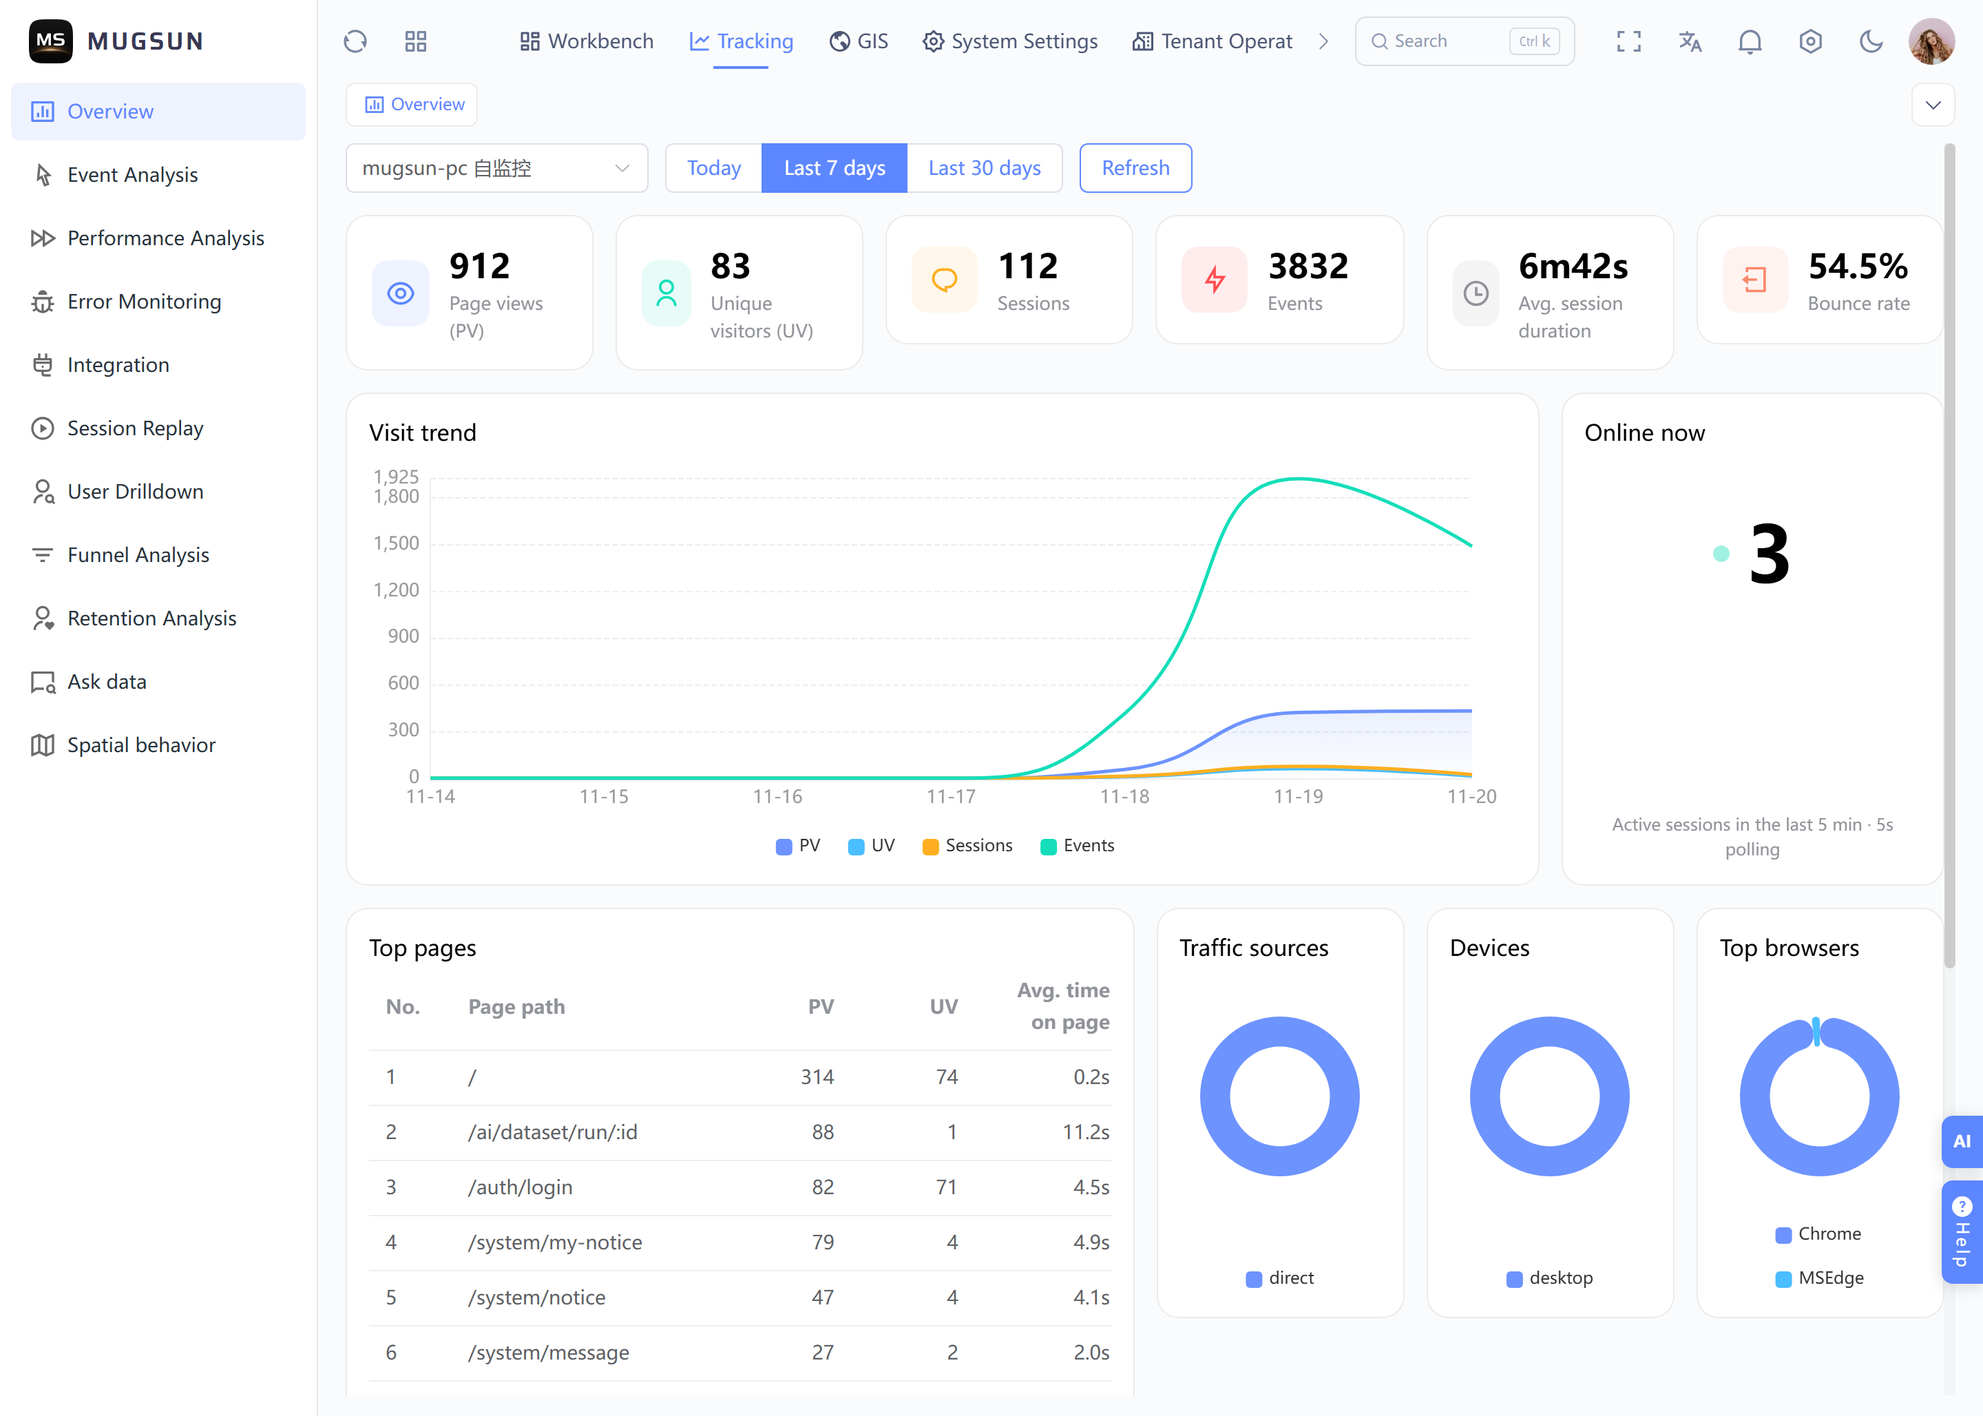
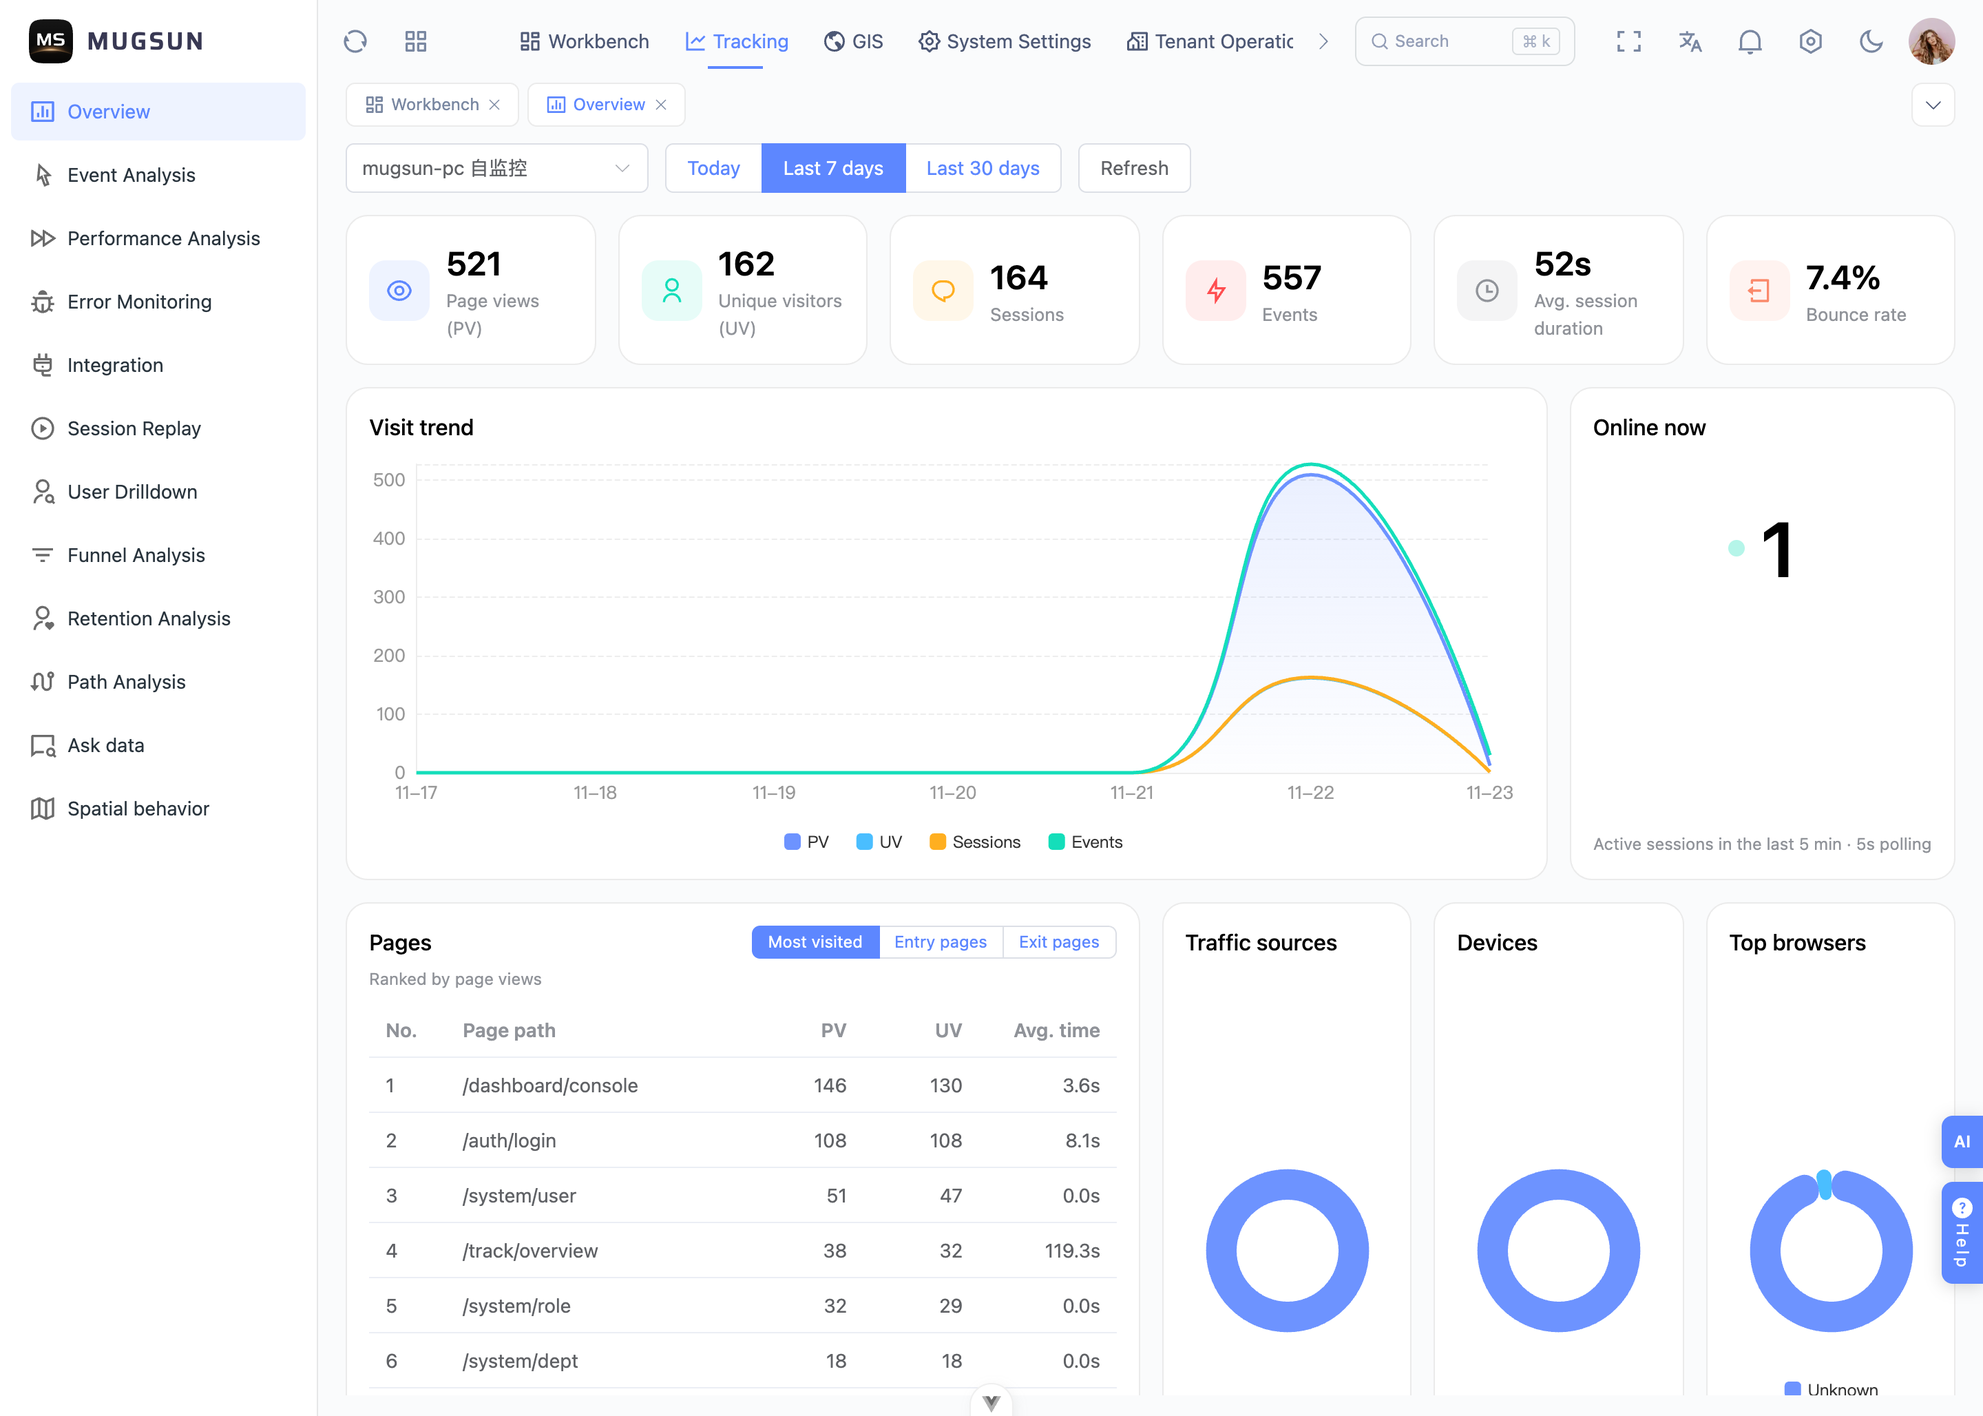
docs(track): 数据概览加上页面排行一节
- 访问最多、入口页、退出页三种排行各列什么、每行有什么
- 入口页、退出页、跳出率、退出率怎么算，和指标卡上的跳出率差在哪
- 接口表加上 /pages 的 type 参数和三种排行各自返回的字段
- 概览页的中英文整页截图重拍，另加入口页卡片的中英文截图
- 更新日志页加上 2026-11-23 这一条

diff --git a/en/track/overview.md b/en/track/overview.md
@@ -6,7 +6,7 @@ Both pages are under the Tracking menu. Pick an application first, then a time r
 
 The selected application and time range are remembered in the browser, and the other Tracking pages reuse them.
 
-![The Overview page: six metric cards at the top, the visit trend and Online now in the middle, Top pages and three distribution charts below](/readme/track-overview-en.png)
+![The Overview page: six metric cards at the top, the visit trend and Online now in the middle, Pages and three distribution charts below](/readme/track-overview-en.png)
 
 ## Metric cards
 
@@ -31,18 +31,42 @@ When no session in the time range has ended yet, Avg. session duration and Bounc
 | Card | Content |
 | --- | --- |
 | Visit trend | With Today, one point every 5 minutes for PV, sessions and events. With 7 or 30 days, one point per day and an extra line for UV |
-| Top pages | The 10 pages with the most page views, each with PV, UV and average time |
+| Pages | Three rankings, each with the top 10 pages: Most visited, Entry pages and Exit pages. See [Pages](#pages) |
 | Traffic sources | PV by the host name of the referring page, top 10. Visits without a referrer are recorded as `direct` |
 | Devices | PV by device type, top 10. Unrecognized ones are recorded as `unknown` |
 | Top browsers | PV by browser, top 10. Unrecognized ones are recorded as `unknown` |
 | Regions | PV, UV and events by the province of the IP address, sorted by events, at most 50 rows |
 | Visit heatmap | The latest 2000 events that carry coordinates, drawn on a map |
 
-The path in Top pages prefers the route template, such as `/order/:id`, so pages of the same kind share one row. Without a route template the actual path is used.
+See [How the dashboards count](/en/track/#dashboard-trend) for how days are cut in the daily trend and how days without data are drawn.
+
+### Pages
+
+Switch between three rankings at the top right of the card. Each shows the top 10 pages:
+
+| Ranking | What it lists | Each row has |
+| --- | --- | --- |
+| Most visited | The pages with the most page views | PV, UV and average time |
+| Entry pages | The first page of each session | Entries, bounces and bounce rate |
+| Exit pages | The last page of each session | Exits, PV and exit rate |
+
+![The Pages card switched to Entry pages, with entries, bounces and bounce rate in each row](/screenshots/track/track-page-rank-entry-en.png)
+
+The page path prefers the route template, such as `/order/:id`, so pages of the same kind share one row. Without a route template the actual path is used.
 
 Average time is the mean of the time on page reported by `$pageleave` events.
 
-See [How the dashboards count](/en/track/#dashboard-trend) for how days are cut in the daily trend and how days without data are drawn.
+Entry pages and Exit pages are counted per session: the page views of a session are put in the order they happened, the first one is the entry page and the last one is the exit page.
+
+- Entries is the number of sessions that came in through this page. Exits is the number of sessions that ended on this page. A session has exactly one entry page and one exit page.
+- A bounce is a session with only one page view. A refresh counts as two page views, so it is not a bounce. Bounce rate = bounces ÷ entries.
+- Exit rate = exits ÷ the PV of this page. It tells you how many of every 100 views of this page were the last page of a session.
+- Page views without a page address are not counted. For a session that viewed only one page, that page is both its entry page and its exit page.
+- When a session crosses the start of the time range, only the part inside the range is visible, and the first page inside the range counts as the entry page.
+
+The bounce rate here covers all sessions in the time range, while the Bounce rate metric card only covers sessions that have ended, so the two numbers can differ slightly.
+
+To see where users go after they come in through an entry page, use [Path analysis](/en/track/journey).
 
 ### Regions and the heatmap
 
@@ -91,7 +115,7 @@ Only about the latest 1000 events per application are kept for this view. For ol
 
 | Content | How it updates |
 | --- | --- |
-| Metric cards, the three distribution charts, Visit trend, Top pages | The result is cached in the backend for 45 seconds. Clicking Refresh still waits for the cache to expire |
+| Metric cards, the three distribution charts, Visit trend, Pages | The result is cached in the backend for 45 seconds. Clicking Refresh still waits for the cache to expire |
 | Regions, Visit heatmap, the event list | Queried from the database every time, not cached |
 | Online now, Real-time event stream | Read from Redis. The page fetches every 5 seconds |
 
@@ -121,7 +145,7 @@ All endpoints are under `/system/track`, use GET and require a login.
 | --- | --- | --- |
 | `/overview` | `sys:track-overview:list` | `appKey` `days` |
 | `/trend` | `sys:track-overview:list` | `appKey` `days` `dimType` `dimKey` |
-| `/pages` | `sys:track-overview:list` | `appKey` `days` `limit` |
+| `/pages` | `sys:track-overview:list` | `appKey` `days` `limit` `type` |
 | `/online` | `sys:track-overview:list` | `appKey` |
 | `/geo` | `sys:track-overview:list` | `appKey` `days` |
 | `/events/page` | `sys:track-event:list` | `appKey` `days` `eventName` `pageNum` `pageSize` |
@@ -136,6 +160,7 @@ Parameter values:
 | `dimType` | One of `overview` `event` `page` `referrer` `device`. Defaults to `overview` |
 | `dimKey` | One value of that dimension, for example the event name when `dimType=event` |
 | `limit` | Defaults to 10 for `/pages` and 100 for `/events/realtime`. Capped at 500 for both |
+| `type` | The ranking of `/pages`: `top` for most visited, `entry` for entry pages, `exit` for exit pages. Defaults to `top`. With `entry` and `exit`, `days` only accepts 1 to 30 |
 | `pageSize` | Defaults to 10, capped at 500 |
 
 What comes back:
@@ -144,7 +169,7 @@ What comes back:
 | --- | --- |
 | `/overview` | `cards` holds the metric cards. `referrerDist` `deviceDist` `browserTop` are the three distribution charts, each item with `name` and `value` |
 | `/trend` | With `days` up to 2, each item has `time` `pv` `eventCount` `sessionCount`. Otherwise each item has `date` `pv` `uv` `sessionCount` `bounceCount` `eventCount` |
-| `/pages` | Each item has `pagePath` `pv` `uv` `avgDurationMs` |
+| `/pages` | With `top`, each item has `pagePath` `pv` `uv` `avgDurationMs`. With `entry`, each item has `pagePath` `sessions` `bounces` `bounceRate`. With `exit`, each item has `pagePath` `sessions` `pv` `exitRate` |
 | `/online` | `online` is the number of sessions and `windowSeconds` is 300 |
 | `/geo` | `regions` is the region table, `points` are the coordinates and `geoCount` is the total count of events with coordinates |
 | `/events/page` | Each row has `eventName` `eventCount` `sessionCount` `uv` `lastTime` |
@@ -153,6 +178,8 @@ What comes back:
 The fields in `cards` are `pv` `uv` `sessionCount` `eventCount` `avgSessionDurationMs` `bounceRate` and `settledSessionCount`.
 
 `bounceRate` is a ratio from 0 to 1. `settledSessionCount` is the number of ended sessions; while it is 0, the duration and the bounce rate have no value yet.
+
+In `/pages`, `bounceRate` and `exitRate` are also ratios from 0 to 1, kept to 4 decimal places. The results of `entry` and `exit` are sorted by `sessions`, largest first.
 
 Times are timestamps in milliseconds, and `date` is a date in the local time zone. When Redis is unreachable, `/online` returns 0 and `/events/realtime` returns an empty array.
 

diff --git a/track/overview.md b/track/overview.md
@@ -6,7 +6,7 @@
 
 选中的应用和时间范围记在浏览器里，「埋点分析」下的其他页面会沿用。
 
-![数据概览页，上面是六张指标卡，中间是访问趋势和当前在线，下面是 Top 页面和三张分布图](/readme/track-overview.png)
+![数据概览页，上面是六张指标卡，中间是访问趋势和当前在线，下面是页面排行和三张分布图](/readme/track-overview.png)
 
 ## 指标卡
 
@@ -31,18 +31,42 @@
 | 卡片 | 内容 |
 | --- | --- |
 | 访问趋势 | 选「今天」时每 5 分钟一个点，画 PV、会话数和事件数。选 7 天或 30 天时每天一个点，多画一条 UV |
-| Top 页面 | PV 最高的 10 个页面，每个页面有 PV、UV 和平均停留 |
+| 页面排行 | 访问最多、入口页、退出页三种排行，各取前 10 个页面，见[页面排行](#页面排行) |
 | 来源分布 | 按来源页面的主机名统计 PV，取前 10。没有来源的记成 `direct` |
 | 设备分布 | 按设备类型统计 PV，取前 10。识别不出的记成 `unknown` |
 | 浏览器 Top | 按浏览器统计 PV，取前 10。识别不出的记成 `unknown` |
 | 地域分布 | 按 IP 所在的省份列出 PV、UV 和事件数，按事件数排，最多 50 行 |
 | 访问热力 | 把最近 2000 条带坐标的事件画在地图上 |
 
-Top 页面的路径优先用路由模板，比如 `/order/:id`，同一类页面合成一行。没有路由模板时用实际路径。
+按天的趋势怎么切天、没有数据的日子怎么画，见[看板怎么统计](/track/#看板趋势)。
+
+### 页面排行
+
+卡片右上角切换三种排行，各取前 10 个页面：
+
+| 排行 | 列的是什么 | 每行有什么 |
+| --- | --- | --- |
+| 访问最多 | PV 最高的页面 | PV、UV、平均停留 |
+| 入口页 | 每次会话看的第一个页面 | 进入次数、跳出次数、跳出率 |
+| 退出页 | 每次会话看的最后一个页面 | 退出次数、PV、退出率 |
+
+![页面排行卡片切到入口页，每行是进入次数、跳出次数和跳出率](/screenshots/track/track-page-rank-entry.png)
+
+页面的路径优先用路由模板，比如 `/order/:id`，同一类页面合成一行。没有路由模板时用实际路径。
 
 平均停留是 `$pageleave` 事件上报的停留时长的平均值。
 
-按天的趋势怎么切天、没有数据的日子怎么画，见[看板怎么统计](/track/#看板趋势)。
+入口页和退出页按会话算：把一次会话的页面浏览按发生时间排好，第一个是入口页，最后一个是退出页。
+
+- 进入次数是从这个页面进来的会话数，退出次数是在这个页面结束的会话数。一次会话只有一个入口页、一个退出页。
+- 跳出是这次会话只有一次页面浏览。刷新算两次浏览，不算跳出。跳出率 = 跳出次数 ÷ 进入次数。
+- 退出率 = 退出次数 ÷ 这个页面的 PV，意思是每看这个页面 100 次，有多少次是最后一页。
+- 没有页面地址的浏览不算。只看了一页的会话，这一页既是入口页也是退出页。
+- 会话跨过时间范围的起点时，只看得到范围内的那一段，范围内的第一个页面算入口页。
+
+这里的跳出率算的是时间范围内全部的会话，指标卡上的跳出率只算已经结束的会话，两个数可能差一点。
+
+想看用户从入口页进来以后怎么走，用[访问路径](/track/journey)。
 
 ### 地域和热力
 
@@ -88,7 +112,7 @@ Top 页面的路径优先用路由模板，比如 `/order/:id`，同一类页面
 
 | 内容 | 更新方式 |
 | --- | --- |
-| 指标卡、三张分布图、访问趋势、Top 页面 | 结果在后端缓存 45 秒，点「刷新」也要等缓存过期 |
+| 指标卡、三张分布图、访问趋势、页面排行 | 结果在后端缓存 45 秒，点「刷新」也要等缓存过期 |
 | 地域分布、访问热力、事件列表 | 每次都查库，不缓存 |
 | 当前在线、实时事件流 | 读 Redis，页面每 5 秒取一次 |
 
@@ -118,7 +142,7 @@ Top 页面的路径优先用路由模板，比如 `/order/:id`，同一类页面
 | --- | --- | --- |
 | `/overview` | `sys:track-overview:list` | `appKey` `days` |
 | `/trend` | `sys:track-overview:list` | `appKey` `days` `dimType` `dimKey` |
-| `/pages` | `sys:track-overview:list` | `appKey` `days` `limit` |
+| `/pages` | `sys:track-overview:list` | `appKey` `days` `limit` `type` |
 | `/online` | `sys:track-overview:list` | `appKey` |
 | `/geo` | `sys:track-overview:list` | `appKey` `days` |
 | `/events/page` | `sys:track-event:list` | `appKey` `days` `eventName` `pageNum` `pageSize` |
@@ -133,6 +157,7 @@ Top 页面的路径优先用路由模板，比如 `/order/:id`，同一类页面
 | `dimType` | `overview` `event` `page` `referrer` `device` 之一，默认 `overview` |
 | `dimKey` | 这个维度下的一个取值，比如 `dimType=event` 时填事件名 |
 | `limit` | `/pages` 默认 10，`/events/realtime` 默认 100，最大都是 500 |
+| `type` | `/pages` 的排行：`top` 访问最多、`entry` 入口页、`exit` 退出页，默认 `top`。`entry` 和 `exit` 的 `days` 只能取 1 到 30 |
 | `pageSize` | 默认 10，最大 500 |
 
 返回的内容：
@@ -141,7 +166,7 @@ Top 页面的路径优先用路由模板，比如 `/order/:id`，同一类页面
 | --- | --- |
 | `/overview` | `cards` 是指标卡，`referrerDist` `deviceDist` `browserTop` 是三张分布图，每项有 `name` 和 `value` |
 | `/trend` | `days` 不超过 2 时每项有 `time` `pv` `eventCount` `sessionCount`，其余每项有 `date` `pv` `uv` `sessionCount` `bounceCount` `eventCount` |
-| `/pages` | 每项有 `pagePath` `pv` `uv` `avgDurationMs` |
+| `/pages` | `top` 每项有 `pagePath` `pv` `uv` `avgDurationMs`，`entry` 每项有 `pagePath` `sessions` `bounces` `bounceRate`，`exit` 每项有 `pagePath` `sessions` `pv` `exitRate` |
 | `/online` | `online` 是会话数，`windowSeconds` 是 300 |
 | `/geo` | `regions` 是地域分布，`points` 是坐标点，`geoCount` 是带坐标的事件总数 |
 | `/events/page` | 每行有 `eventName` `eventCount` `sessionCount` `uv` `lastTime` |
@@ -152,6 +177,8 @@ Top 页面的路径优先用路由模板，比如 `/order/:id`，同一类页面
 另外三项是 `avgSessionDurationMs` `bounceRate` 和 `settledSessionCount`。
 
 `bounceRate` 是 0 到 1 的比例。`settledSessionCount` 是已经结束的会话数，是 0 时时长和跳出率还没有值。
+
+`/pages` 里的 `bounceRate` 和 `exitRate` 也是 0 到 1 的比例，保留 4 位小数。`entry` 和 `exit` 的结果按 `sessions` 从多到少排。
 
 时间都是毫秒时间戳，`date` 是当地时区的日期。Redis 连不上时，`/online` 返回 0，`/events/realtime` 返回空数组。
 

diff --git a/CHANGELOG.md b/CHANGELOG.md
@@ -9,6 +9,11 @@
 
 ### 变更
 
+- 数据概览一页（中英）加上「页面排行」一节：访问最多、入口页、退出页三种排行
+  - 写明入口页、退出页、跳出率和退出率怎么算，和指标卡上的跳出率差在哪
+  - 接口表加上 `/pages` 的 `type` 参数和三种排行各自返回的字段
+  - 页面上的「Top 页面」改叫「页面排行」，更新日志页加上 2026-11-23 这一条
+  - 概览页的中英文整页截图重拍，另加入口页卡片的中英文截图
 - 新增「访问路径」一页（中英）：埋点分析里按会话看用户下一步去了哪个页面
   - 写明它和漏斗的差别、怎么算和两种起点方式，附权限和接口，配中英文截图
   - 埋点概述的页面表和漏斗页的「下一步」加上新页，更新日志页和侧边栏也加上

diff --git a/en/guide/changelog.md b/en/guide/changelog.md
@@ -27,6 +27,12 @@ The changes below affect existing deployments or integrations. Check them one by
 | 2026-10-13 | Open APIs no longer trust `X-Forwarded-For` by default | Behind a reverse proxy, list the proxy addresses in `MUGSUN_OPENAPI_TRUSTED_PROXIES` |
 | 2026-10-13 | Analytics SDK 0.2.0 changed two privacy defaults | See [Analytics SDK 0.1.0 → 0.2.0](/en/guide/upgrade/track-web-0-2-0) |
 
+## 2026-11-23
+
+| Area | Change |
+| --- | --- |
+| Tracking | Top pages on the Overview page is now Pages. It can switch to Entry pages and Exit pages, with bounce rate and exit rate. See [Pages](/en/track/overview#pages) |
+
 ## 2026-11-22
 
 | Area | Change |

diff --git a/guide/changelog.md b/guide/changelog.md
@@ -27,6 +27,12 @@ pageClass: ms-first-col-nowrap
 | 2026-10-13 | 开放接口默认不信任 `X-Forwarded-For` | 部署在反向代理后面时，把代理地址写进 `MUGSUN_OPENAPI_TRUSTED_PROXIES` |
 | 2026-10-13 | 埋点 SDK 0.2.0 改了两个隐私默认值 | 见[埋点 SDK 0.1.0 → 0.2.0](/guide/upgrade/track-web-0-2-0) |
 
+## 2026-11-23
+
+| 范围 | 变更 |
+| --- | --- |
+| 埋点分析 | 数据概览的「Top 页面」改成「页面排行」，可以切换看入口页和退出页，带跳出率和退出率，见[页面排行](/track/overview#页面排行) |
+
 ## 2026-11-22
 
 | 范围 | 变更 |
